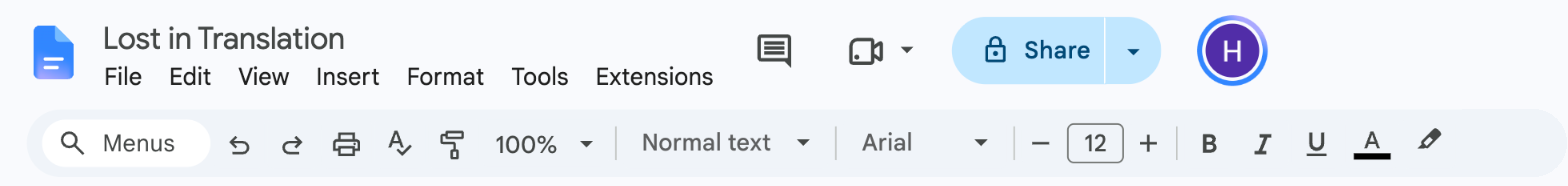
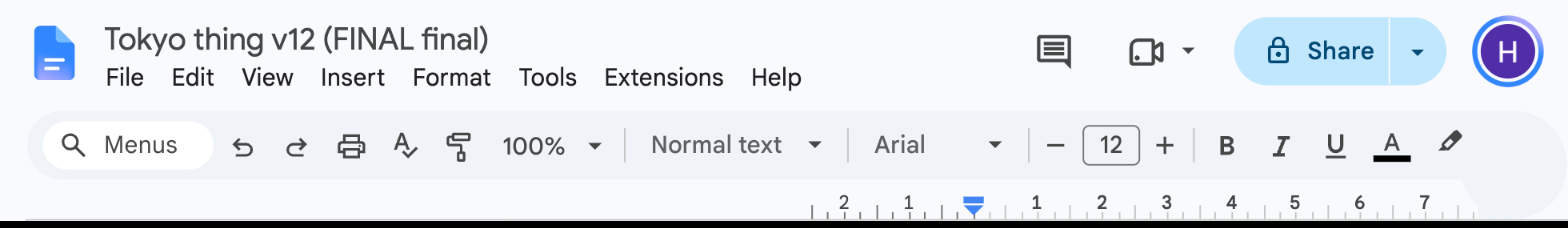
Accueil : le document s'appelle « Tokyo thing v12 (FINAL final) »
Claude-Session: https://claude.ai/code/session_01P8W3LLeLe5QXHWTDcbhje4

diff --git a/index.html b/index.html
@@ -1396,7 +1396,7 @@
 
         <div class="hero-tryit">
           <div class="gdoc" aria-label="A document, the way Google Docs shows it">
-            <img class="gdoc-chrome" src="/docs-chrome.png?v=5" alt="" width="1568" height="186">
+            <img class="gdoc-chrome" src="/docs-chrome.png?v=6" alt="" width="1568" height="228">
             <div class="gdoc-canvas">
               <div class="tryit-side">
                 <div class="tryit-pill" id="tryit-pill"><span class="tryit-dot"></span><span><span class="tryit-line">You're in <b>dialogue</b>.</span><span class="tryit-tip"></span></span></div>
